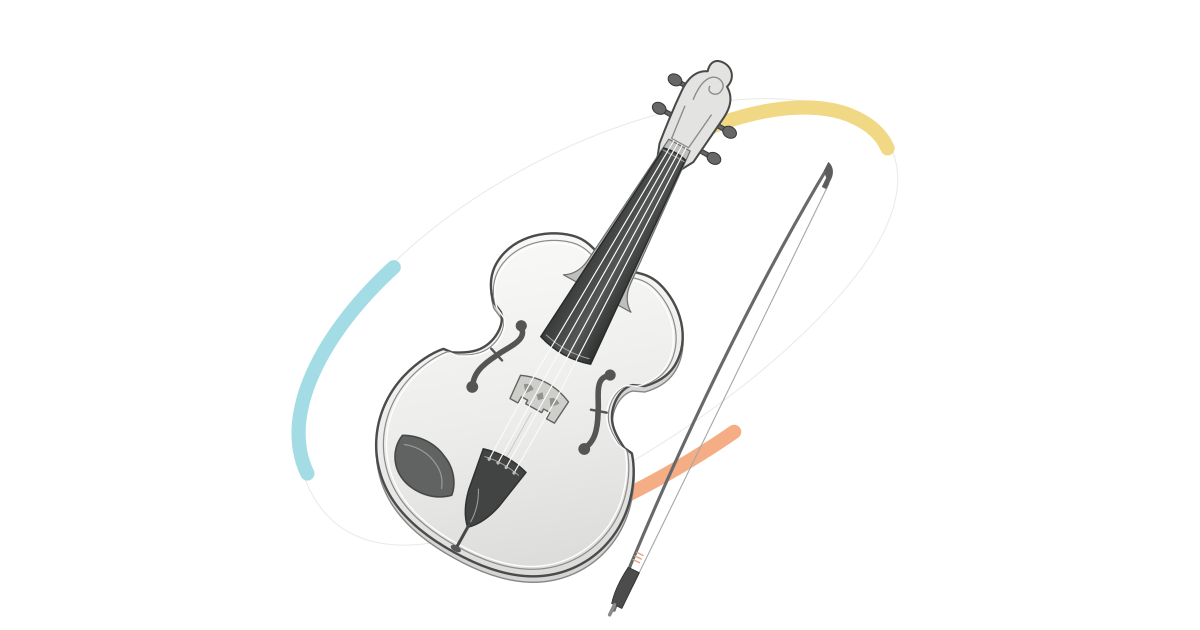
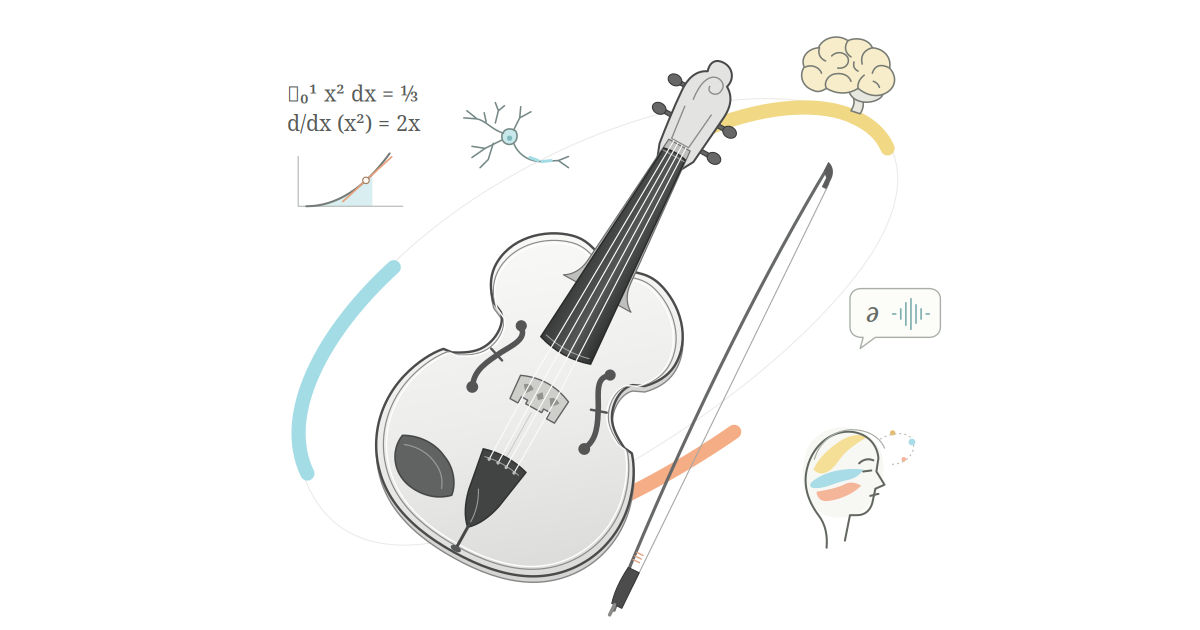
Expand the violin artwork with calculus, cognition, and art motifs

diff --git a/index.html b/index.html
@@ -16,7 +16,7 @@
   <meta property="og:image" content="https://eideelaurel.com/profile-assets/violin-social.png">
   <meta property="og:image:width" content="1200">
   <meta property="og:image:height" content="630">
-  <meta property="og:image:alt" content="A gray violin and bow with pastel yellow, cyan and orange accents">
+  <meta property="og:image:alt" content="A gray violin surrounded by calculus, a neuron, a brain, speech, and a pastel-painted face">
   <meta name="twitter:card" content="summary_large_image">
   <link rel="stylesheet" href="profile.css">
 </head>
@@ -46,7 +46,7 @@
         </div>
       </div>
       <div class="hero-art">
-        <img src="profile-assets/violin.svg" alt="" width="760" height="620" fetchpriority="high">
+        <img src="profile-assets/violin.svg" alt="A gray violin surrounded by calculus, a branching neuron, a brain, a speech waveform, and a pastel-painted face" width="760" height="620" fetchpriority="high">
       </div>
     </section>
 
